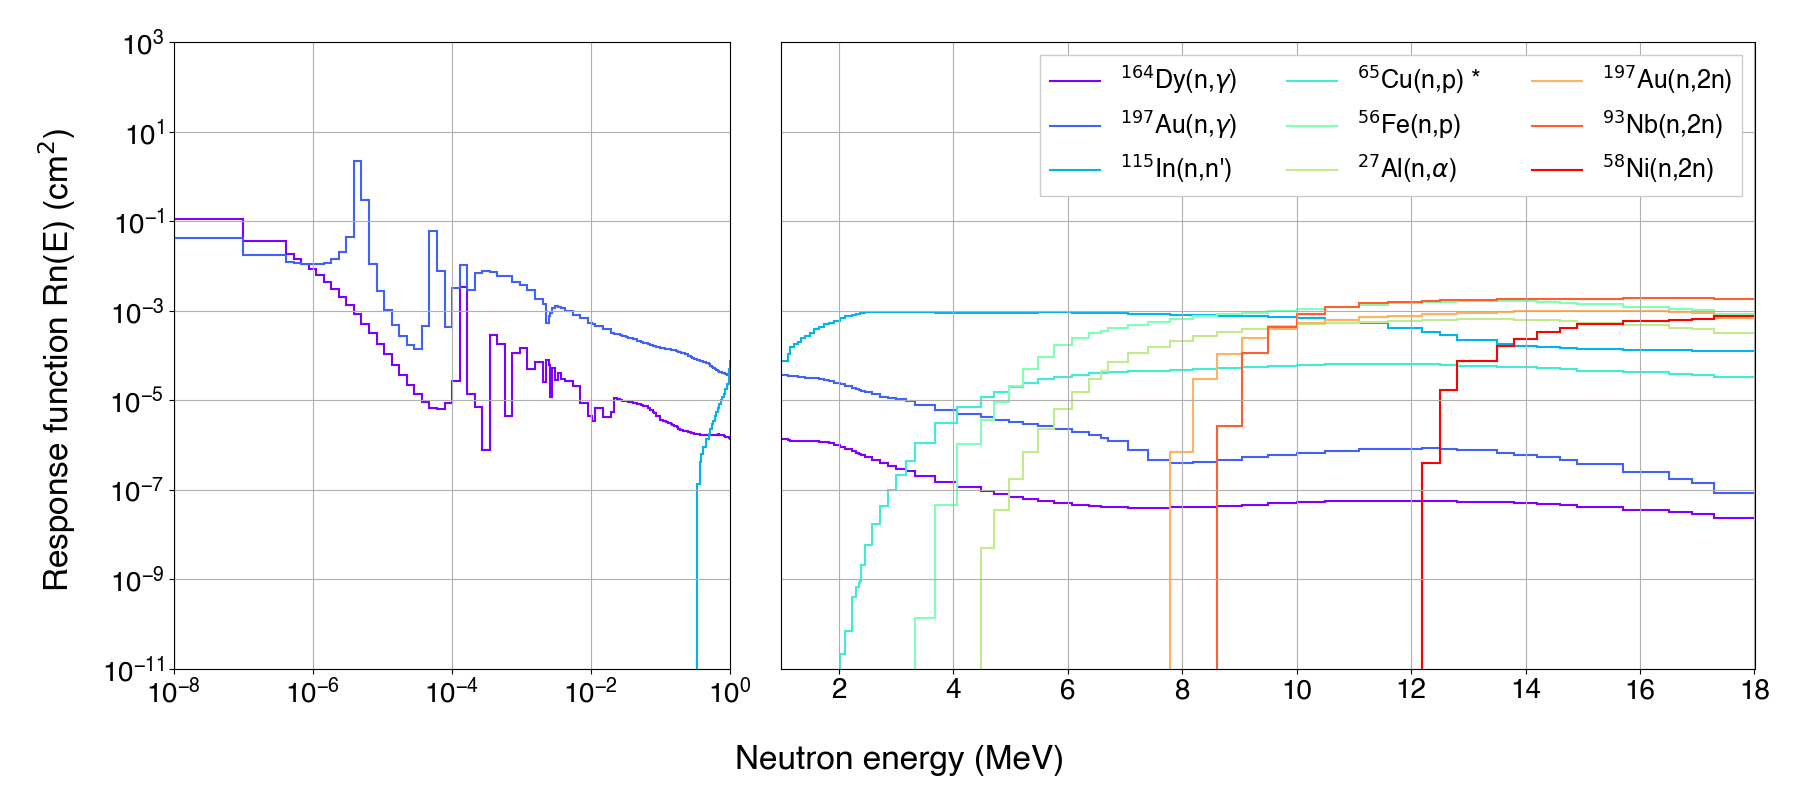
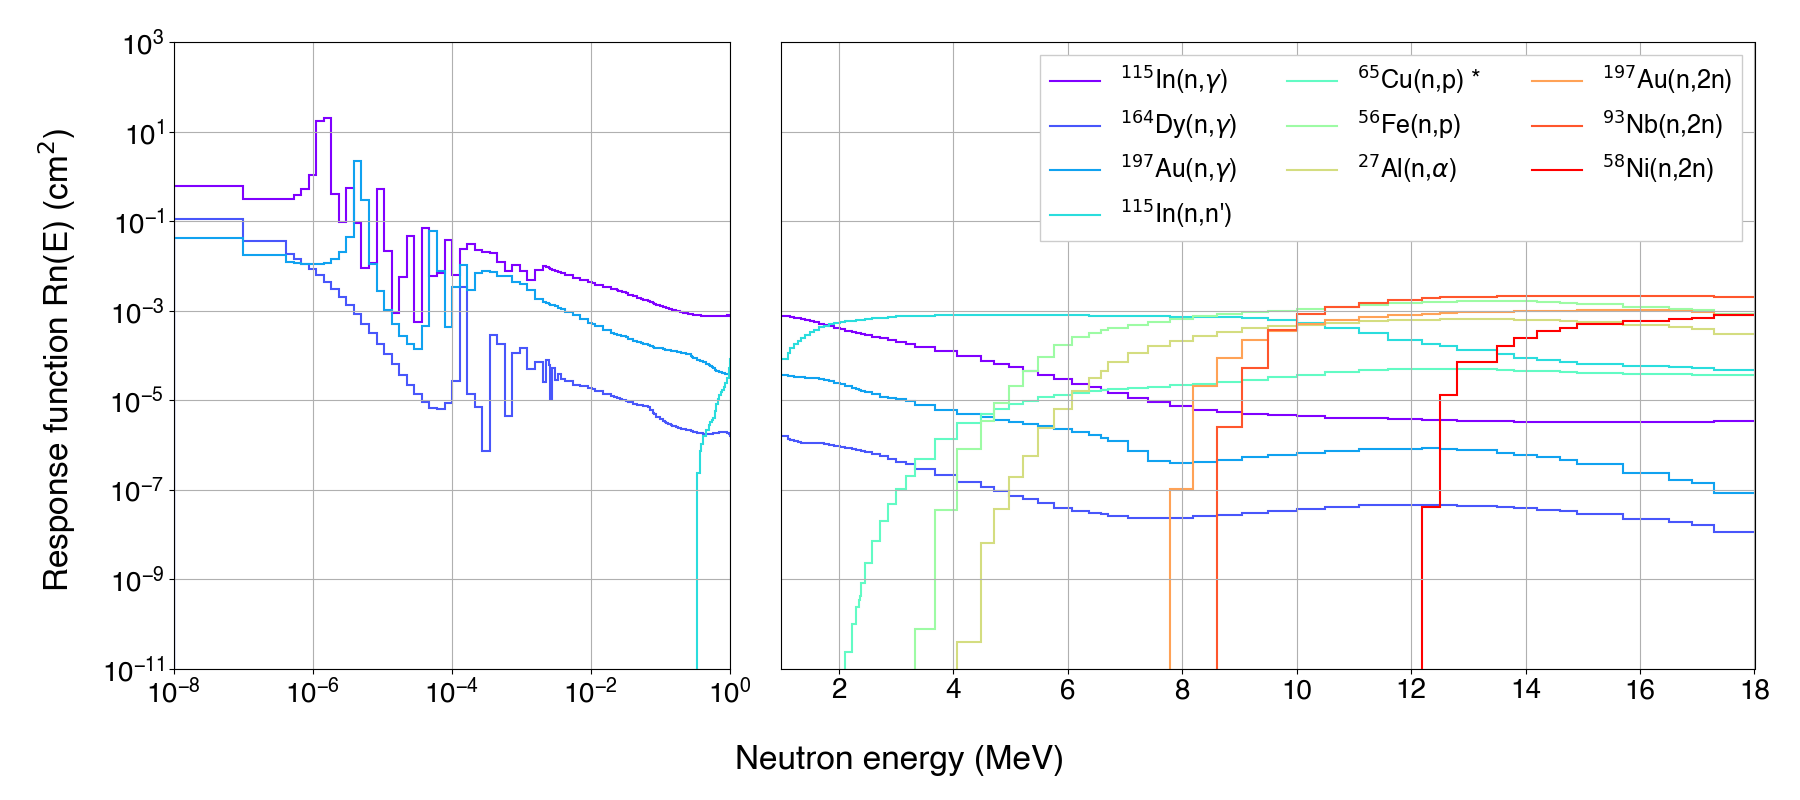
nothing major

diff --git a/response_functions/njoy_responses.py b/response_functions/njoy_responses.py
@@ -17,25 +17,24 @@ os.environ['NJOY'] = '/Users/ljb841@student.bham.ac.uk/NJOY2016/bin/njoy'
 ek=sandy.energy_grids.VITAMINJ175
 
 library = 'endfb_80' # endfb_71 endfb_80 jendl_40u jeff_33 tendl_21
-data_file_name = 'data/foil_data_fe'
-#reaction_labels = [r'${}^{115}$In(n,$\gamma$)',
-#                r'${}^{164}$Dy(n,$\gamma$)',
-#                r'${}^{197}$Au(n,$\gamma$)',
-#                r"${}^{115}$In(n,n')", 
-#                r'${}^{65}$Cu(n,p) *',
-#                r'${}^{56}$Fe(n,p)',
-#                r'${}^{27}$Al(n,$\alpha$)', 
-#                r'${}^{197}$Au(n,2n)',
-#                r'${}^{93}$Nb(n,2n)',
-#                r'${}^{58}$Ni(n,2n) ']
+data_file_name = 'data/foil_data'
+reaction_labels = [r'${}^{115}$In(n,$\gamma$)',
+                r'${}^{164}$Dy(n,$\gamma$)',
+                r'${}^{197}$Au(n,$\gamma$)',
+                r"${}^{115}$In(n,n')", 
+                r'${}^{65}$Cu(n,p) *',
+                r'${}^{56}$Fe(n,p)',
+                r'${}^{27}$Al(n,$\alpha$)', 
+                r'${}^{197}$Au(n,2n)',
+                r'${}^{93}$Nb(n,2n)',
+                r'${}^{58}$Ni(n,2n) ']
 
-reaction_labels = [r'${}^{56}$Fe(n,n)']
+#reaction_labels = [r'${}^{56}$Fe(n,n)']
 #reaction_labels = ['${}^{7}$Li(p,n)']
 
 # run the sandy get_endf routine
 def _get_endf_file(material):
     endf_file = sandy.get_endf6_file(library, "xs", material)
-    print(endf_file)
     return endf_file
 
 # get covariance, standard deviation, from a material endf6 file
@@ -66,6 +65,7 @@ def _get_gendf_data(material,mt_value):
         endf_file = _get_endf_file(material)
         ekws = dict(ek=ek,nuclide_production=True,iwt=3)
         gendf = endf_file.get_gendf(minimal_processing=True, err=0.005, temperature=0,groupr_kws=ekws)
+        print(gendf)
     except:
         print(f'-----> reactions not found for MAT {material}: MT {mt_value}')
         return [],np.array([])
@@ -207,8 +207,8 @@ def run():
     atomic_mass_list= [x['foil_atomic_mass'] for x in json_file_data.values()]
     thickness_list =  [x['thickness_cm'] for x in json_file_data.values()]
 
-    _export_and_plot_stdev(material_list,mt_list,labels_list)
-    #_export_and_plot_xs(material_list,mt_list,density_list,
-    #                    mass_list,abundance_list,atomic_mass_list,
-    #                    labels_list,thickness_list)
+    #_export_and_plot_stdev(material_list,mt_list,labels_list)
+    _export_and_plot_xs(material_list,mt_list,density_list,
+                        mass_list,abundance_list,atomic_mass_list,
+                        labels_list,thickness_list)
 run()
